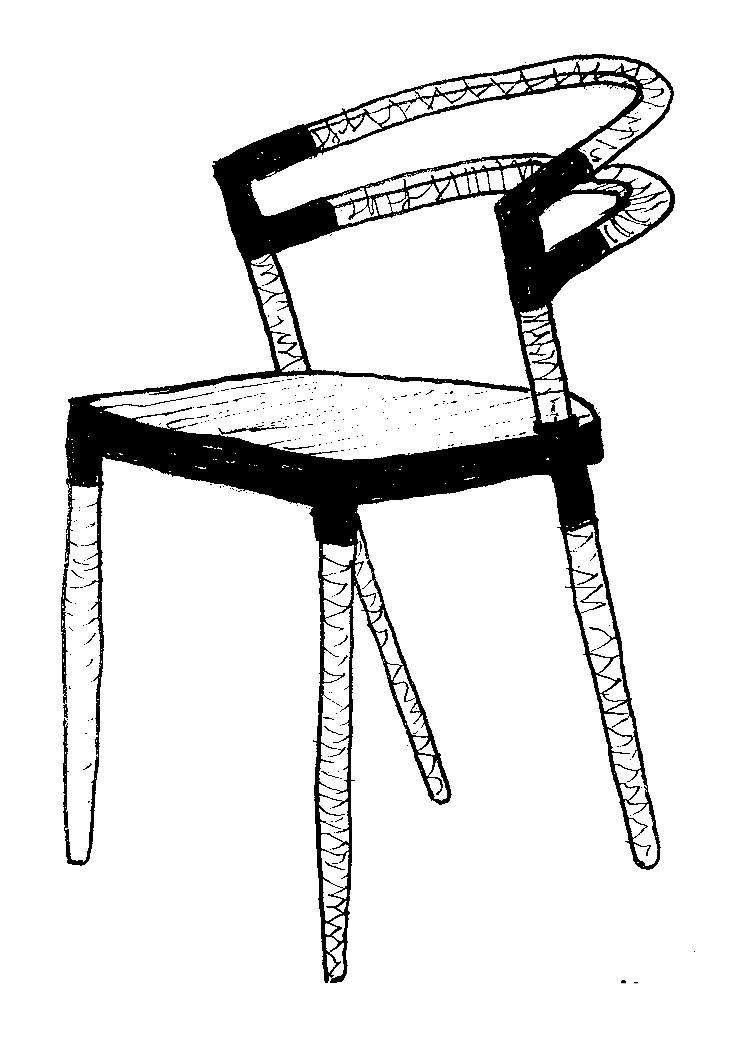
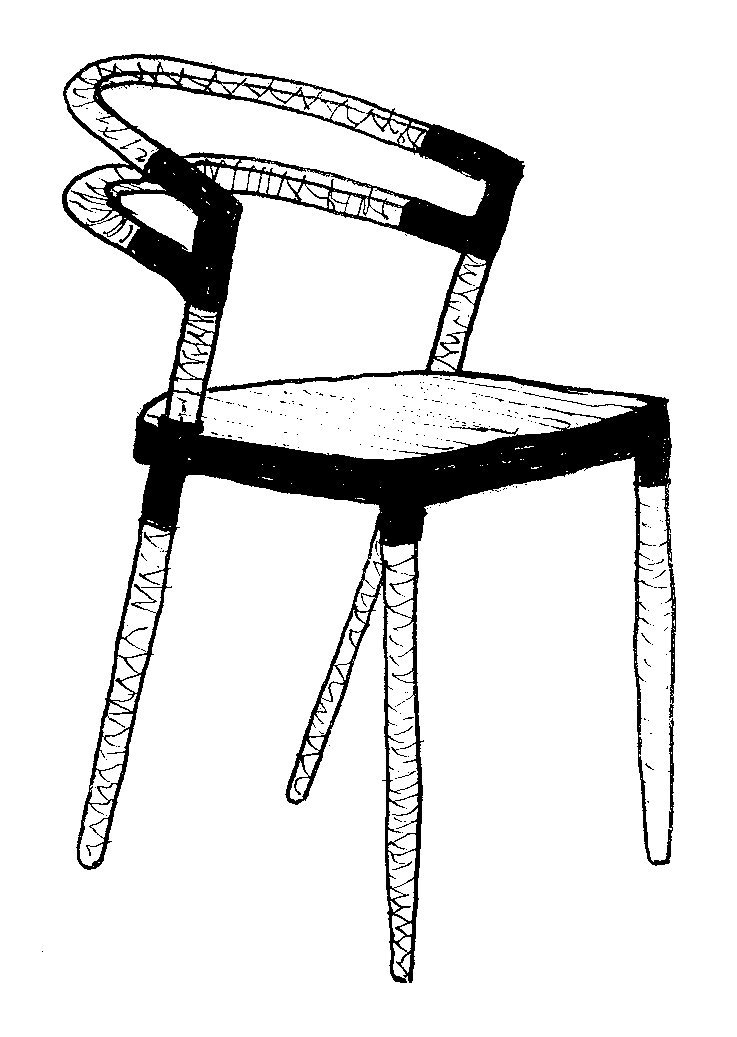
move chair, improve grid, etc

Changed region(s): [[0.0624, 0.0309, 0.9362, 0.8332], [0.2809, 0.432, 0.7178, 0.9566]]

diff --git a/web/src/components/Footer.vue b/web/src/components/Footer.vue
@@ -1,22 +1,24 @@
 <template>
   <footer class="site-footer" id="contact">
-    <div class="block contact">
-      <h2>Contact</h2>
-      <ul>
-        <li><a href="mailto:studio@lakayan.no" target="_blank"><div class="before"><Arrow /></div>studio@lakayan.no</a></li>
-        <li><a href="tel:004745919489" target="_blank"><div class="before"><Arrow /></div>+47 459 19 489</a></li>
-      </ul>
-    </div>
-    <div class="block social">
-      <h2>Social</h2>
-      <ul>
-        <li><a href="https://instagram.com/studiolakayan" target="_blank"><div class="before"><Arrow /></div>Instagram</a></li>
-        <li><a href="https://facebook.com/studiolakayan" target="_blank"><div class="before"><Arrow /></div>Facebook</a></li>
-        <li><a href="https://linkedin.com/studiolakayan" target="_blank"><div class="before"><Arrow /></div>LinkedIn</a></li>
-      </ul>
-    </div>
-    <div class="block text">
-      <p class="lead">This is a new studio! We don't have any projects! See Dorna's previous projects at dorna.no</p>
+    <div class="footer-grid">
+      <div class="block contact">
+        <h2>Contact</h2>
+        <ul>
+          <li><a class="link" href="mailto:studio@lakayan.no" target="_blank"><div class="before"><Arrow /></div>studio@lakayan.no</a></li>
+          <li><a class="link" href="tel:004745919489" target="_blank"><div class="before"><Arrow /></div>+47 459 19 489</a></li>
+        </ul>
+      </div>
+      <div class="block social">
+        <h2>Social</h2>
+        <ul>
+          <li><a class="link" href="https://instagram.com/studiolakayan" target="_blank"><div class="before"><Arrow /></div>Instagram</a></li>
+          <li><a class="link" href="https://facebook.com/studiolakayan" target="_blank"><div class="before"><Arrow /></div>Facebook</a></li>
+          <li><a class="link" href="https://linkedin.com/studiolakayan" target="_blank"><div class="before"><Arrow /></div>LinkedIn</a></li>
+        </ul>
+      </div>
+      <div class="block text">
+        <p>Studio Lakayan was founded in 2021. If you would like to see previous projects by Dorna, <a href="mailto:dorna@lakayan.no" target="_blank">request a presentation</a> or visit <a href="https://dorna.no" target="_blank">dorna.no</a> for an overview.</p>
+      </div>
     </div>
     <div class="top-link">
       <ToTop />
@@ -38,19 +40,24 @@ export default {
 
 <style lang="scss">
 .site-footer {
+  padding: 0 12rem;
+  position: relative;
+}
+.footer-grid {
   display: grid;
-  grid-template-columns: repeat(7, 1fr);
+  grid-template-columns: repeat(6, 1fr);
   grid-gap: 4rem;
-  padding: 2rem;
   font-size: 0.8em;
   padding: 14rem 2rem 2rem;
   min-height: 100vh;
+  margin: 0 auto;
+  max-width: 1400px;
 
   .block {
     grid-column: span 2;
   }
 
-  a {
+  .link {
     color: inherit;
     display: block;
     font-size: 1.4rem;
@@ -81,6 +88,15 @@ export default {
       }
     }
   }
+  .text {
+    grid-column: span 4;
+  }
+  p {
+    a {
+      display: inline;
+      text-decoration: underline;
+    }
+  }
 
   h2 {
     margin-top: 0;
@@ -90,21 +106,21 @@ export default {
 
   ul {
     list-style: none;
-    margin: 1rem 0 14rem;
+    margin: 1rem 0 7rem;
     padding: 0;
     li {
       margin: 0 0 .7rem;
     }
   }
-
-  .top-link {
-    grid-column: 7 / span 1;
-    text-align: right;
+}
+.top-link {
+    position: absolute;
+    bottom: 2rem;
+    right: 2rem;
     display: flex;
     align-items: flex-end;
     justify-content: flex-end;
   }
-}
 @media (max-width: 1000px) {
   .site-footer {
     grid-template-columns: repeat(4, 1fr);

diff --git a/web/src/pages/Index.vue b/web/src/pages/Index.vue
@@ -1,7 +1,6 @@
 <template>
   <Layout :show-logo="false">
     <Intro />
-    <!--<ColorPalette />-->
     <!--<div class="projects">
       <project-card
         v-for="edge in $page.projects.edges"
@@ -19,6 +18,7 @@
         <img src="/images/night.jpg" />
       </div>
     </div>
+    <ColorPalette />
     <InfoCard />
     <AboutCard />
     <div class="gallery">
@@ -171,7 +171,6 @@ export default {
   display: block;
   position: relative;
   width: 100%;
-  max-width: 600px;
   margin: 4rem 0 0;
   transform: translateX(14%);
   z-index: 10;
@@ -203,7 +202,6 @@ export default {
   display: block;
   position: relative;
   width: 80%;
-  max-width: 600px;
   margin: 4rem 0 0;
   > img {
     display: block;
@@ -233,6 +231,8 @@ export default {
   display: grid;
   grid-template-columns: 1fr 1fr;
   align-items: center;
+  max-width: 1400px;
+  margin: 0 auto;
 }
 body[data-theme="dark"] {
  	.intro-image.dark,

diff --git a/web/src/components/graphics/ColorPalette.vue b/web/src/components/graphics/ColorPalette.vue
@@ -1,16 +1,20 @@
 <template>
   <div class="color-palette">
     <div class="color color1">
-      <Logo />
+      Light<br>
+      #FDF4E4
     </div>
     <div class="color color2">
-      <Logo />
+      Dorna<br>
+      #F80934
     </div>
     <div class="color color3">
-      <Logo />
+      Night<br>
+      #111014
     </div>
     <div class="color color4">
-      <Logo />
+      Earth<br>
+      #352A2A
     </div>
   </div>
 </template>
@@ -32,7 +36,8 @@ export default {
     padding: 4rem 2rem 2rem 2rem;
   }
   .color1 {
-    background: var(--color-olive);
+    background: var(--color-light);
+    color: var(--color-earth);
   }
   .color2 {
     background: var(--color-dorna);

diff --git a/web/src/components/AboutCard.vue b/web/src/components/AboutCard.vue
@@ -68,7 +68,8 @@ export default {
 .about-card {
   display: grid;
   grid-template-columns: 1fr 1fr;
-  margin: 0 -1rem;
+  margin: 0 auto;
+  max-width: 1400px;
   align-items: stretch;
   position: relative;
   min-height: 50vh;
@@ -117,9 +118,13 @@ export default {
     grid-template-columns: 1fr;
     &__image {
       margin-bottom: 2rem;
+      img {
+        width: 50%;
+      }
     }
     &__header {
       display: block;
+      padding-right: 0;
       h2, p {
         margin-bottom: 4rem;
       }

diff --git a/studio/schemas/objects/simplePortableText.js b/studio/schemas/objects/simplePortableText.js
@@ -13,6 +13,20 @@ export default {
           {title: 'Strong', value: 'strong'},
           {title: 'Emphasis', value: 'em'},
           {title: 'Code', value: 'code'}
+        ],
+        annotations: [
+          {
+            name: 'link',
+            type: 'object',
+            title: 'URL',
+            fields: [
+              {
+                title: 'URL',
+                name: 'href',
+                type: 'url'
+              }
+            ]
+          }
         ]
       }
     }

diff --git a/studio/schemas/documents/general.js b/studio/schemas/documents/general.js
@@ -15,6 +15,17 @@ export default {
       description: 'The introduction to Studio Lakayan. The first things visitors see when they visit the front page.'
     },
     {
+      name: 'body',
+      type: 'bodyPortableText',
+      title: 'Body'
+    },
+    {
+      name: 'footertext',
+      type: 'simplePortableText',
+      title: 'Footer',
+      description: 'Text at the bottom of the page.'
+    },
+    {
       name: 'description',
       type: 'text',
       title: 'Description',

diff --git a/web/src/components/InfoCard.vue b/web/src/components/InfoCard.vue
@@ -57,7 +57,8 @@ export default {
 .info-card {
   display: grid;
   grid-template-columns: 1fr 1fr;
-  margin: 0 -1rem;
+  margin: 0 auto;
+  max-width: 1400px;
   padding: 7rem 0;
   align-items: stretch;
   position: relative;
@@ -116,7 +117,7 @@ export default {
 .sketch-image-wrapper {
   display: block;
   position: relative;
-  width: 14rem;
+  width: 11rem;
   margin: 4rem 0 2rem;
   > img {
     display: block;

diff --git a/studio/schemas/documents/about.js b/studio/schemas/documents/about.js
@@ -9,6 +9,11 @@ export default {
       title: 'Image'
     },
     {
+      name: 'lead',
+      type: 'text',
+      title: 'Lead'
+    },
+    {
       name: 'bio',
       type: 'simplePortableText',
       title: 'Biography'
